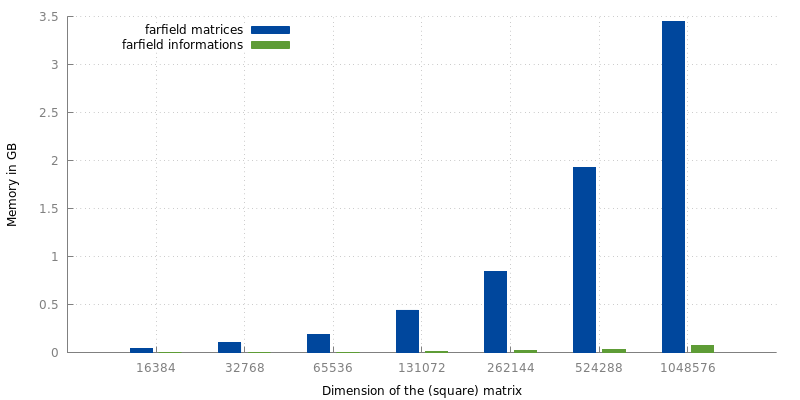
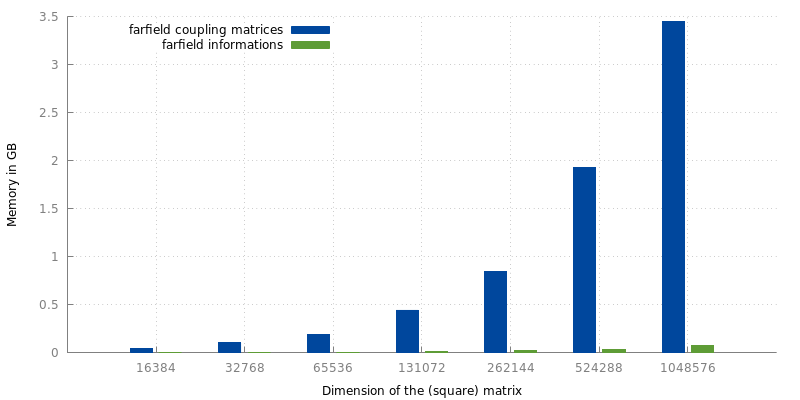
Improve wording

Changed region(s): [[0.1562, 0.06, 0.4375, 0.12]]

diff --git a/_posts/2017-27-09-results-farfiled.md b/_posts/2017-27-09-results-farfiled.md
@@ -36,7 +36,7 @@ differrent dimensions:
 
 {:.center}
 **Figure 1**: Memory requirements of $$\mathcal{H}^2$$-matrices and their
-proportion of neafield and farfield matrices.
+proportion of neafield and farfield coupling matrices.
 
 For our current algorithm, we concentrate on the farfield part of
 $$\mathcal{H}^2$$-matrix which occupies the 20-26% of memory we want save.
@@ -50,7 +50,7 @@ multiplying them with the input vector.
 
 {:.center}
 **Figure 2**: Memory requirements for saving the coupling matrices compared to
-              those needed to computing those matrices.
+              the informations needed to compute those matrices.
 
 The information needed to compute the coupling matrices and to perform the
 follwing matrix vector multiplication, including the
@@ -78,9 +78,8 @@ GPU accelerator.
 
 {:.center}
 **Figure 2**: Time needed to perform the standard $$\mathcal{H}^2$$-matrix
-              vector multiplication  
-              compared to same task while computing the farfield matrices and
-              their part of the product on the GPU.
+              vector multiplication compared to the same task while computing
+              the farfield matrices and their part of the product on the GPU.
 
 As already mentioned, computing the coupling matrices on-the-fly, even when done
 on the GPU, performes slightly worse than solely performing the matrix vector
